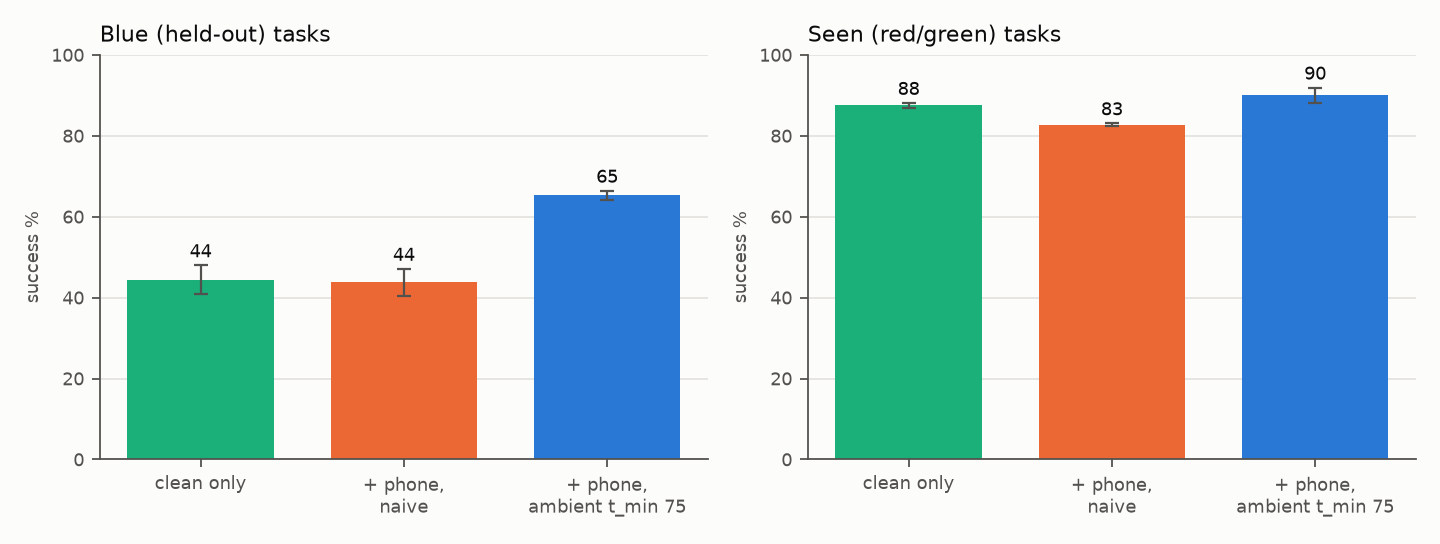
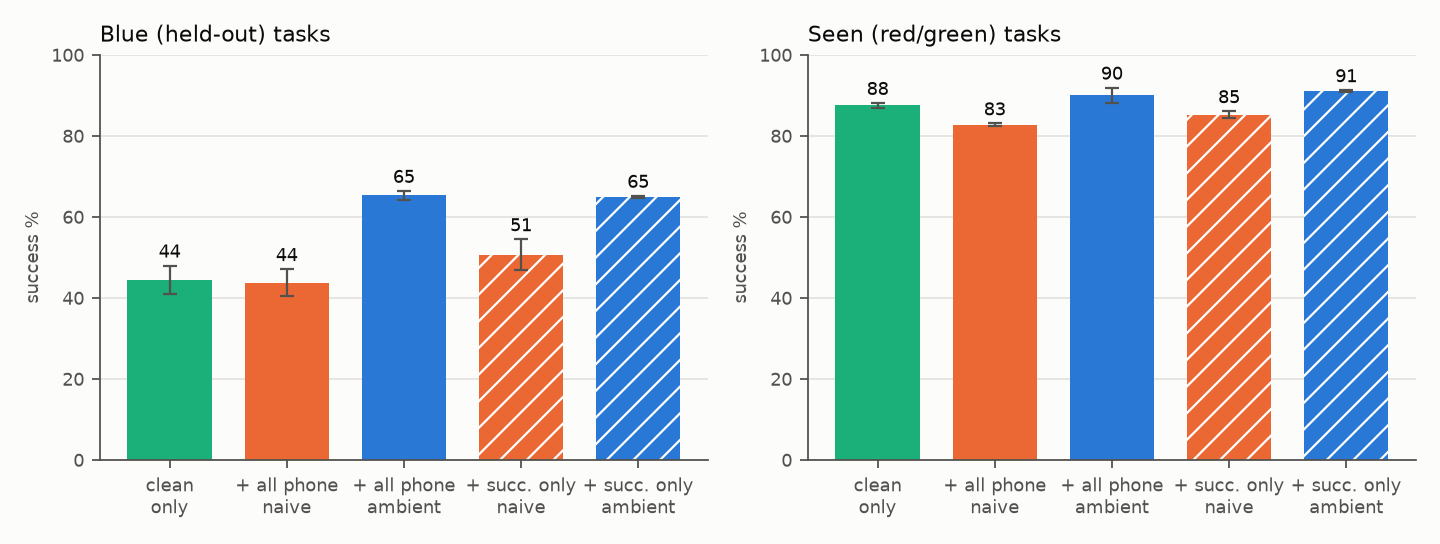
README headline: ambient beats filtering failed phone replays (B' control: 51% filtered naive vs 65% ambient with or without failures); figure labels

diff --git a/scripts/make_figures.py b/scripts/make_figures.py
@@ -71,26 +71,29 @@ def results(out_fig="docs/figures", out_md="docs/results_tables.md"):
     md = ["# Results tables (generated by `scripts/make_figures.py --results`)", ""]
 
     # 1) real phone replays on the small policy, 4 clean blue demos per task
-    conds = [("C", "clean only", CLEAN, None), ("K4_P", "+ phone, naive", NAIVE, None),
-             ("K4_Pa75", "+ phone, ambient t_min 75", AMB, None),
-             ("K4_Pok", "+ successful phone only, naive", NAIVE, "//"),
-             ("K4_Pok_a75", "+ successful phone only, ambient 75", AMB, "//")]
+    # (run, table label, short tick label, color, hatch)
+    conds = [("C", "clean only", "clean\nonly", CLEAN, None),
+             ("K4_P", "+ all phone, naive", "+ all phone\nnaive", NAIVE, None),
+             ("K4_Pa75", "+ all phone, ambient t_min 75", "+ all phone\nambient", AMB, None),
+             ("K4_Pok", "+ successful phone only, naive", "+ succ. only\nnaive", NAIVE, "//"),
+             ("K4_Pok_a75", "+ successful phone only, ambient t_min 75", "+ succ. only\nambient", AMB, "//")]
     conds = [c for c in conds if len(sweep(c[0]))]
     md += ["## Small policy: real phone replays (4 clean blue demos per task)", "",
            "| training data | seeds | seen % | blue (held-out) % |", "|---|---|---|---|"]
     for n, lab, *_ in conds:
         md.append(f"| {lab} | {len(sweep(n))} | {ms(n, 0)} | {ms(n, 1)} |")
-    md += ["", "Mean ± std over training seeds; 50 eval episodes per task and seed.", ""]
+    md += ["", "Mean ± std over training seeds; 50 eval episodes per task and seed. \"Successful only\": the 37 of 48 "
+           "replays that succeeded in sim.", ""]
     fig, axes = plt.subplots(1, 2, figsize=(9, 3.4), facecolor=SURF)
     for ax, col, title in ((axes[0], 1, "Blue (held-out) tasks"), (axes[1], 0, "Seen (red/green) tasks")):
-        for i, (n, lab, c, hatch) in enumerate(conds):
+        for i, (n, lab, _, c, hatch) in enumerate(conds):
             v = sweep(n)[:, col]
             ax.bar(i, v.mean(), 0.72, color=c, hatch=hatch, edgecolor=SURF if not hatch else "white", lw=0,
                    yerr=v.std() if len(v) > 1 else None, error_kw={"ecolor": INK2, "capsize": 3, "lw": 1})
             ax.text(i, v.mean() + (v.std() if len(v) > 1 else 0) + 2, f"{v.mean():.0f}", ha="center",
                     fontsize=8, color=INK)
         ax.set_xticks(range(len(conds)))
-        ax.set_xticklabels([lab.replace(", ", ",\n") for _, lab, *_ in conds], fontsize=7, color=INK2)
+        ax.set_xticklabels([t for _, _, t, *_ in conds], fontsize=7, color=INK2)
         ax.set_ylim(0, 100)
         ax.set_title(title, fontsize=10, color=INK, loc="left")
         ax.set_ylabel("success %", fontsize=8, color=INK2)

diff --git a/README.md b/README.md
@@ -6,6 +6,16 @@
 
 Robot post-training needs task demonstrations, and clean (teleoperated or scripted) demos are expensive. Human demonstrations recorded with a phone are cheap but noisy: the hand is tracked imperfectly, the human grasps differently from a parallel gripper, and the retargeted trajectories miss by centimeters. The question here is whether such noisy demos **improve** post-training when clean data for a new task is scarce, and whether an **ambient diffusion / flow-matching loss** (noisy samples only supervise the high-noise end of the diffusion process) makes them usable where naive training on them does not.
 
+**Headline result (small diffusion policy, real phone demos, 4 clean demos per held-out task, 3 seeds).** With the ambient loss, the 48 phone replays raise held-out success from **44% to 65%**. The ambient loss also **beats filtering**: discarding the 11 replays that failed in sim and training naively on the rest reaches only 51%. And it gives **the same result with or without the failed replays** (65.3% vs 64.9%), so the noisy demos need no curation. Naive training on all replays gains nothing (44%).
+
+| training data (blue = held-out cube) | seen % | blue % |
+|---|---|---|
+| clean only | 87.6 ± 0.6 | 44.4 ± 3.5 |
+| + all 48 phone replays, naive | 82.8 ± 0.3 | 43.8 ± 3.3 |
+| + 37 successful replays only (filtered), naive | 85.2 ± 0.9 | 50.7 ± 3.8 |
+| + 37 successful replays only, ambient | 91.0 ± 0.3 | 64.9 ± 0.3 |
+| **+ all 48 phone replays, ambient** | **90.0 ± 1.9** | **65.3 ± 1.1** |
+
 The test bed is a simulated Franka Panda picking one of three colored cubes and placing it in one of three zones (9 tasks). The **blue cube is held out**: no sim demos ever target it (it is present as a distractor in every scene). Blue data comes only from a few clean sim demos and from phone recordings.
 
 ## Setup: phone → retargeting → sim
@@ -28,7 +38,7 @@ A 5.4M-parameter DDPM policy (1D temporal U-Net, FiLM-conditioned on privileged 
 
 ![real phone replays on the small policy](docs/figures/phone_small_policy.png)
 
-With 4 clean blue demos per task, adding the 48 phone replays **naively** changes nothing on blue (44 → 44%) and costs seen performance; with the **ambient loss (t_min 75)** they raise blue success to **65%** (3 seeds each). <!-- TODO: B′ control (successful replays only) — running -->
+With 4 clean blue demos per task, adding the 48 phone replays **naively** changes nothing on blue (44 → 44%) and costs seen performance; with the **ambient loss (t_min 75)** they raise blue success to **65%** (3 seeds each). Control (hatched bars): keeping only the 37 replays that succeeded in sim gives 51% with the naive loss and 65% with the ambient loss. So the ambient loss beats filtering out the failed replays, and it is insensitive to whether they are included. The gain is spread evenly across the three blue tasks (+17 to +25 points each).
 
 ### The best t_min rises with the noise level
 

diff --git a/NOTES.md b/NOTES.md
@@ -284,6 +284,7 @@ Driven from the Mac with the colab CLI; the VM runs `colab/job.py` detached (noh
 
 ## Small-policy results, full queue (2026-10-10, `outputs/ambient_sweep/`, `scripts/summarize_ambient_sweep.py`)
 - **Real phone replays, 4 clean blue/task**: clean only 44.4 ± 3.5 blue; + phone naive 43.8 ± 3.3; **+ phone ambient t_min 75: 65.3 ± 1.1** (3 seeds; t 50: 54.0, t 90: 60.7); seen 82.8 (naive) → 90.0 (ambient). 0 clean: naive 9.6 ± 2.2, ambient t 50 8.0 ± 0.5, t ≥ 75 → ~0 (no low-noise supervision without clean data).
+- **B′ control (2026-10-10), successful replays only (37/48), 4 clean blue/task, 3 seeds**: naive 50.7 ± 3.8 blue (seen 85.2); ambient t 75 64.9 ± 0.3 (seen 91.0). The failed replays are what cancels the naive gain (44 → 51 when filtered), and the ambient loss beats filtering and is insensitive to including the failed replays (65.3 vs 64.9). Per-task blue for all-phone ambient: yellow 66.0, purple 65.3, orange 64.7 (clean only 41.3 / 48.0 / 44.0).
 - **Best t_min rises with noise** (synthetic, 4 clean, blue %): 0.4×: naive 83.3 best, ambient 69–79; 1×: naive 36.9, best t 90 50.9 ± 1.1; 2×: naive 29.3, best t 90 50.7.
 - **Clean scaling, 1× synthetic** (clean / +naive / +ambient t 90): K4 44/37/51, K8 71/57/67, K12 86/65/80, K24 95/75/91 → ambient beats discarding only at K4; above, it recovers most but not all.
 - VLA t_min for C+N+amb (real phone, 4 clean): t 75 → `--ambient_t_min 0.72`. Namb (0 clean) not worth running.

diff --git a/docs/results_tables.md b/docs/results_tables.md
@@ -5,10 +5,12 @@
 | training data | seeds | seen % | blue (held-out) % |
 |---|---|---|---|
 | clean only | 3 | 87.6 ± 0.6 | 44.4 ± 3.5 |
-| + phone, naive | 3 | 82.8 ± 0.3 | 43.8 ± 3.3 |
-| + phone, ambient t_min 75 | 3 | 90.0 ± 1.9 | 65.3 ± 1.1 |
+| + all phone, naive | 3 | 82.8 ± 0.3 | 43.8 ± 3.3 |
+| + all phone, ambient t_min 75 | 3 | 90.0 ± 1.9 | 65.3 ± 1.1 |
+| + successful phone only, naive | 3 | 85.2 ± 0.9 | 50.7 ± 3.8 |
+| + successful phone only, ambient t_min 75 | 3 | 91.0 ± 0.3 | 64.9 ± 0.3 |
 
-Mean ± std over training seeds; 50 eval episodes per task and seed.
+Mean ± std over training seeds; 50 eval episodes per task and seed. "Successful only": the 37 of 48 replays that succeeded in sim.
 
 ## Small policy: ambient t_min vs synthetic noise level (4 clean blue demos per task, blue %)
 
